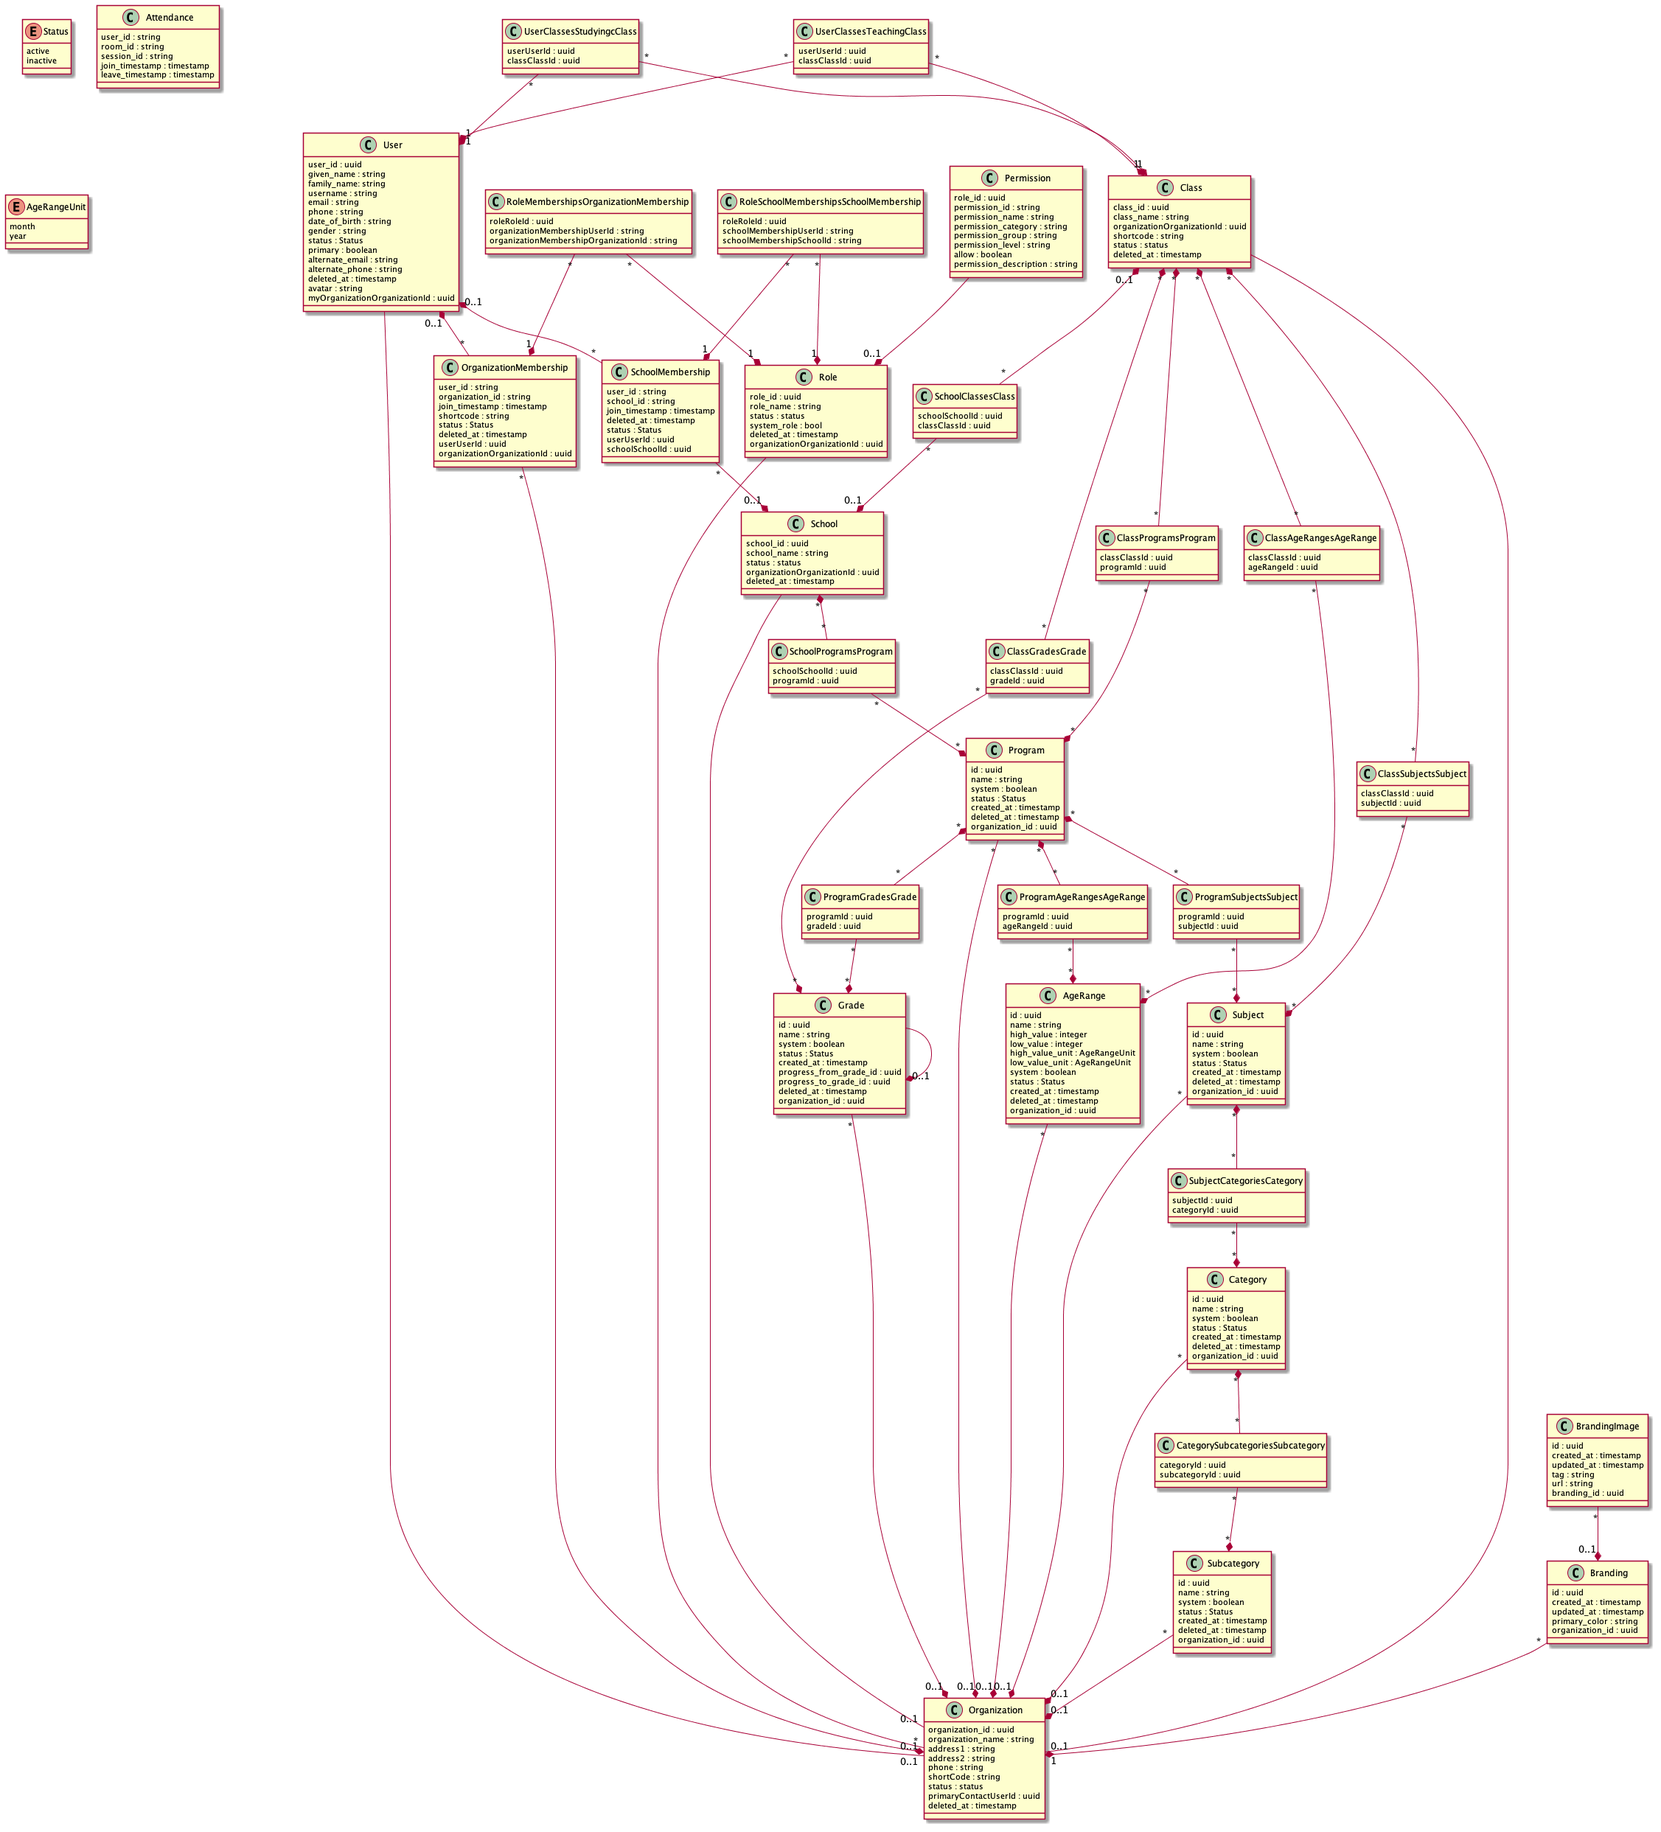
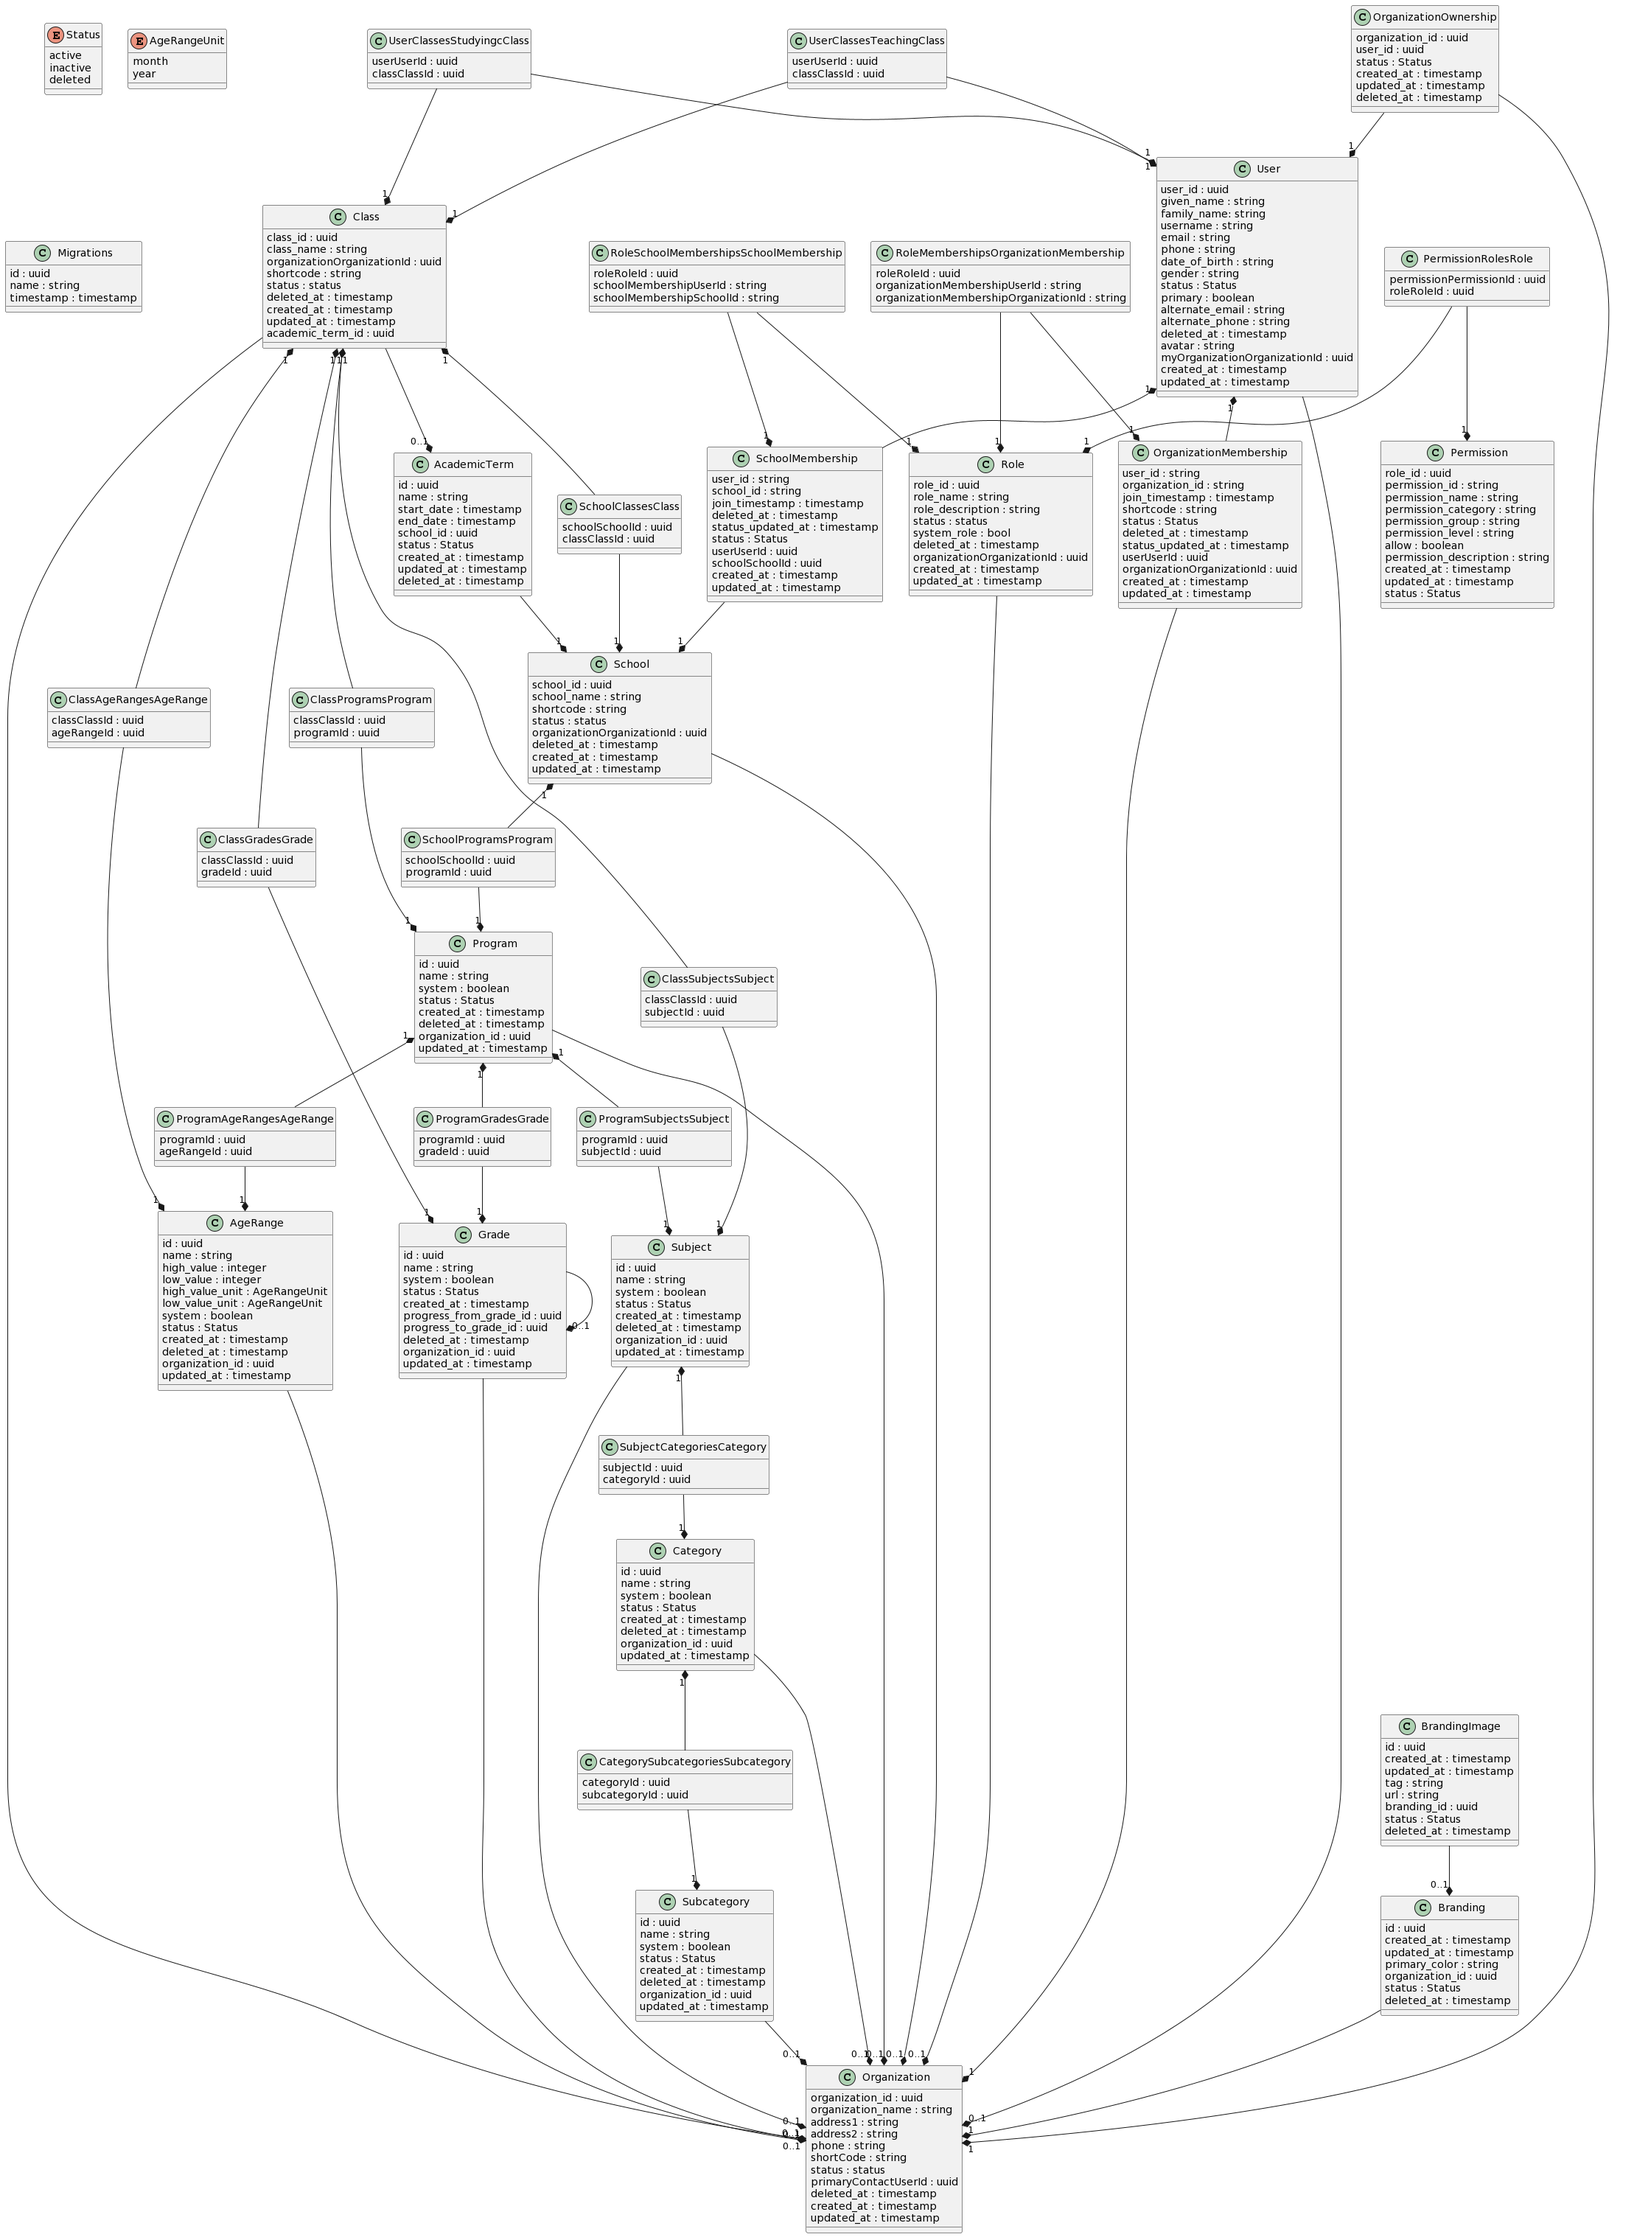
docs(AD-2364): db schema graph update (#75)
* docs: update db schema diagram

* docs: added simplified db diagrams

* docs: added explanation on how to produce plantuml diagram

* docs: deleted simplified db schemas as the full one is preferred

diff --git a/documents/howto/generate-db-diagram.md b/documents/howto/generate-db-diagram.md
@@ -1,0 +1,21 @@
+# How to generate a database diagram with plantuml
+
+## Defining the diagram
+
+The file which contains the code to generate the diagram is located at `documents/dbschema.plantuml`.
+
+In this file, tables are defined using the `class` keyword and using a similar syntax to defining a typescript object.
+We also define enums which are used in these tables.
+
+Then we need to define relationships between classes, the following syntax is used:
+
+```
+ClASS_A "source_description" --* "destination_description" CLASS_B
+```
+
+`--` draws a line between two classes, and `*` puts an arrow at the end of it.
+
+## Producing an image
+
+The most straightforward way to produce an image from a `.plantuml` file is to past its code in a plantuml generator
+and then exporting the generated image. You can use this website <https://www.planttext.com/>
